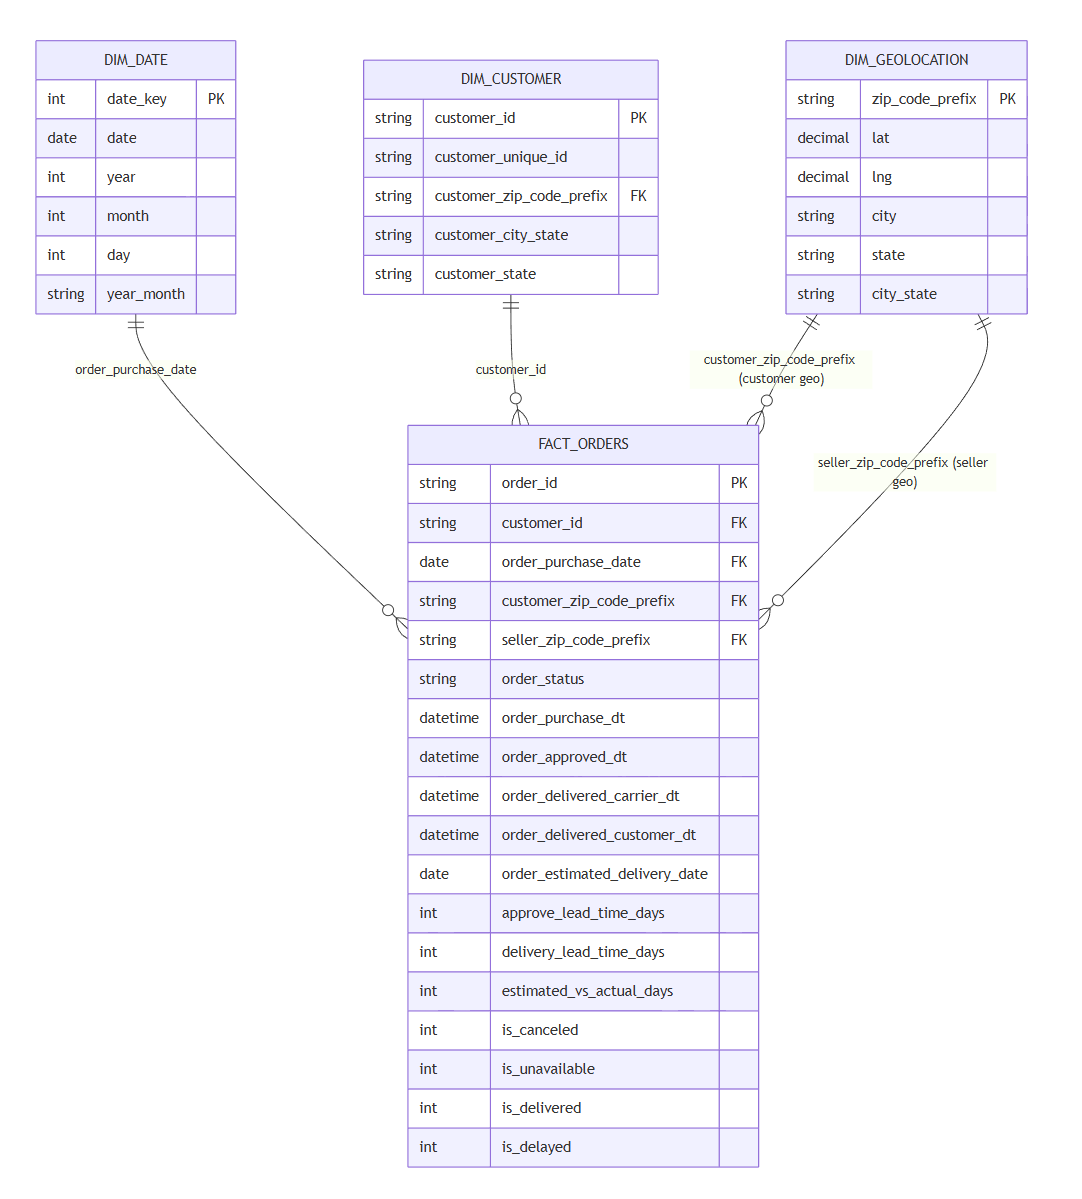
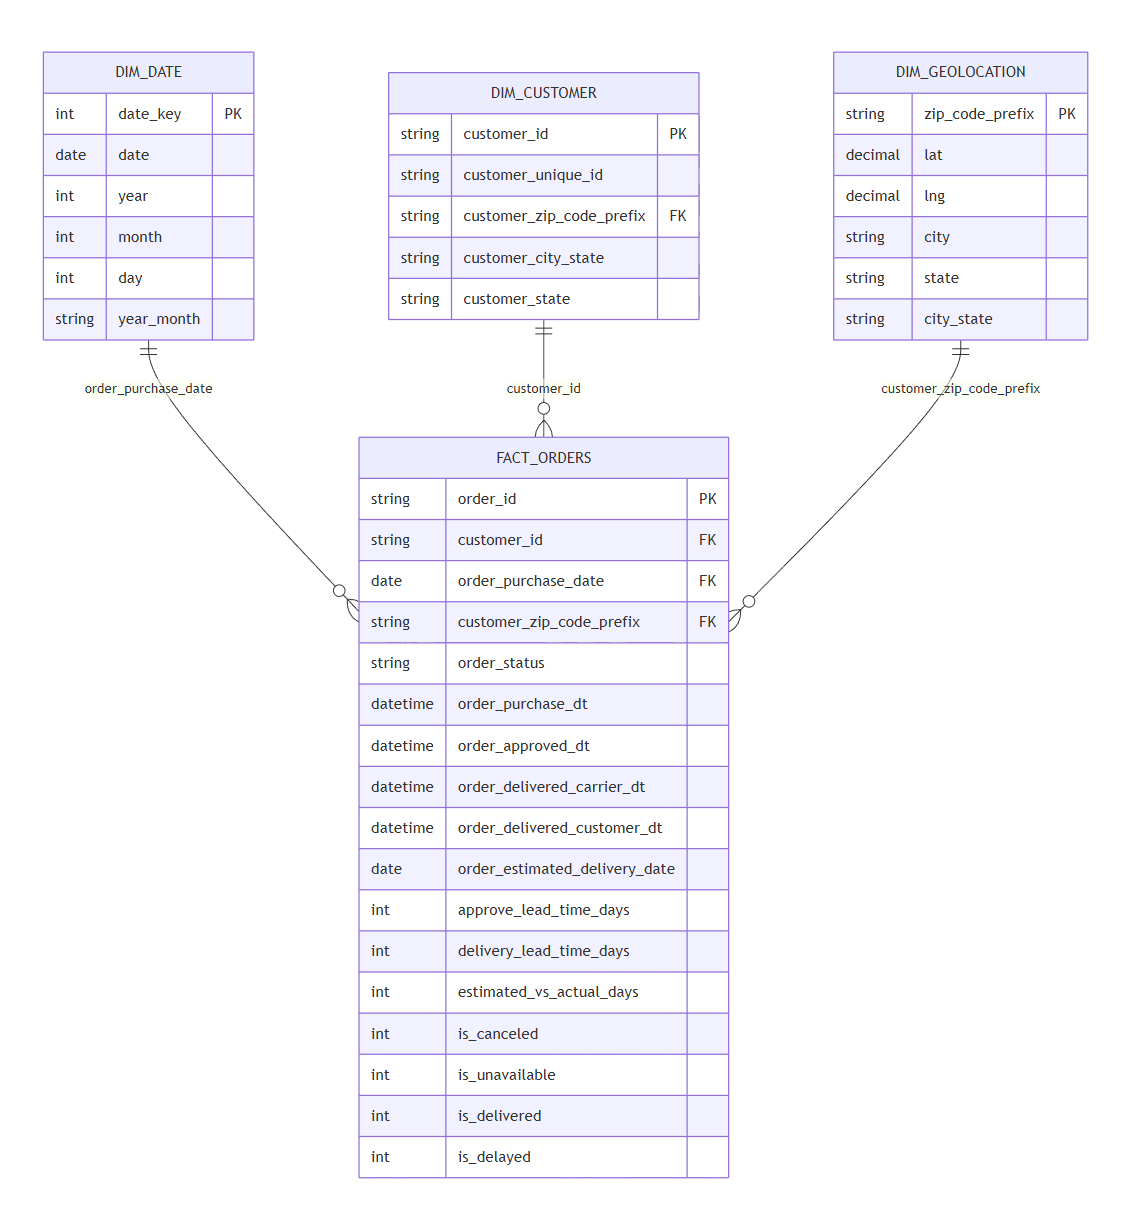
DM 설계 보완: 주문 단위 Fact에서 seller geo 제거 (그레인 충돌 해결)

diff --git a/01_docs/Data_mart_design.md b/01_docs/Data_mart_design.md
@@ -391,7 +391,6 @@ erDiagram
     string  customer_id FK
     date    order_purchase_date FK
     string  customer_zip_code_prefix FK
-    string  seller_zip_code_prefix FK
 
     %% Status / Timestamps
     string  order_status
@@ -442,7 +441,6 @@ erDiagram
   %% Relationships (Star Schema)
   DIM_DATE       ||--o{ FACT_ORDERS : "order_purchase_date"
   DIM_CUSTOMER   ||--o{ FACT_ORDERS : "customer_id"
-  DIM_GEOLOCATION||--o{ FACT_ORDERS : "customer_zip_code_prefix (customer geo)"
-  DIM_GEOLOCATION||--o{ FACT_ORDERS : "seller_zip_code_prefix (seller geo)"
+  DIM_GEOLOCATION||--o{ FACT_ORDERS : "customer_zip_code_prefix"
 
 ```
